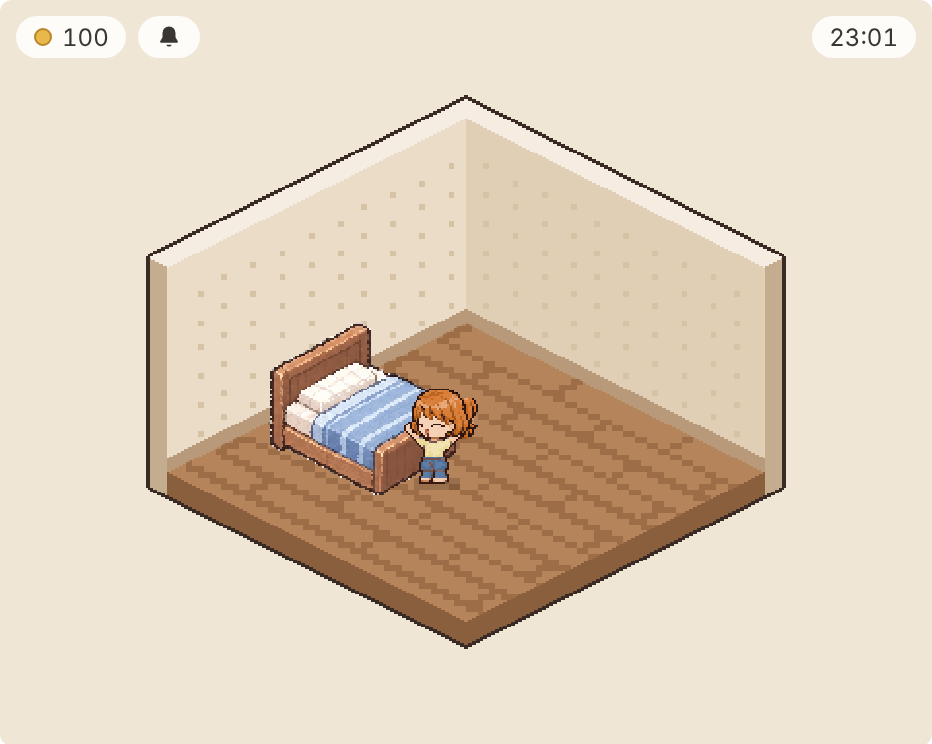
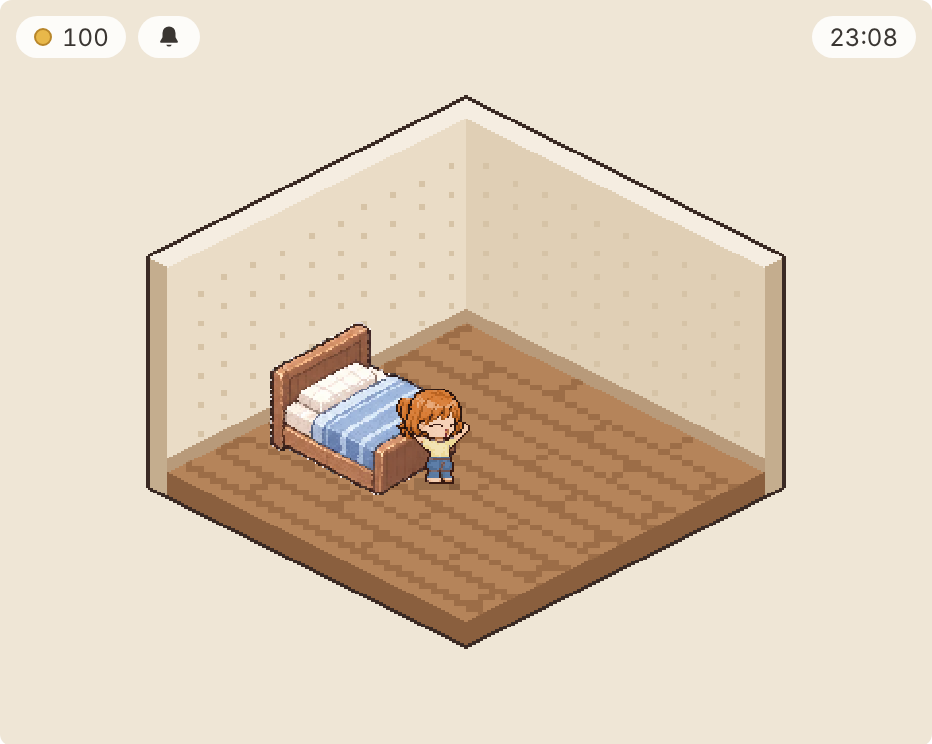
베개가 앞쪽인 침대에서 GPT 누운 머리 그림 사용, 좌우 뒤집힌 침대 뒤쪽 그림 4종 수정
Claude-Session: https://claude.ai/code/session_017aF2aZeAYzMjvegGtH2ZQ4

Changed region(s): [[0.4045, 0.5255, 0.529, 0.6492], [0.9335, 0.0309, 0.9646, 0.0618]]

diff --git a/lie-front-art.js b/lie-front-art.js
@@ -1,0 +1,2 @@
+// 베개가 앞쪽인 침대에서 자는 머리 (정수리가 보는 쪽). GPT 그림을 도트로 바꿔 만든 파일 (art-src/tools/lie_front.py)
+const LIE_FRONT_ART = {"base": {"hair": "#211610", "skin": "#f0d0b9"}, "palette": {"䀀": ["#4a3226", "keep"], "䀁": ["#2e180f", "keep"], "䀂": ["#4d2f22", "hair"], "䀃": ["#673f2d", "hair"], "䀄": ["#e3bea7", "skin"], "䀅": ["#f3cfb7", "skin"], "䀆": ["#f4cdb2", "skin"], "䀇": ["#bf9b88", "hair"], "䀈": ["#f2c6ab", "skin"], "䀉": ["#26160f", "keep"], "䀊": ["#291911", "keep"], "䀋": ["#40251a", "keep"], "䀌": ["#0d0201", "keep"], "䀍": ["#f2d6c0", "skin"], "䀎": ["#22120c", "keep"], "䀏": ["#342219", "keep"], "䀐": ["#372219", "keep"], "䀑": ["#090000", "keep"], "䀒": ["#efccb3", "skin"], "䀓": ["#100805", "keep"], "䀔": ["#392319", "keep"], "䀕": ["#371f16", "keep"], "䀖": ["#543628", "hair"], "䀗": ["#422a1f", "keep"], "䀘": ["#1a0904", "keep"], "䀙": ["#1d0e08", "keep"], "䀚": ["#472f23", "keep"], "䀛": ["#442b20", "keep"], "䀜": ["#7e5947", "hair"], "䀝": ["#4a2d21", "keep"], "䀞": ["#462c21", "keep"], "䀟": ["#301d16", "keep"], "䀠": ["#000000", "keep"]}, "heads": {"short": {"rows": ["..............䀀䀀䀀䀀䀀䀀.........", ".............䀀䀁䀂䀃䀄䀅䀄䀀䀀.......", ".........䀀..䀀䀄䀅䀅䀆䀆䀆䀅䀅䀅䀀䀀.....", ".........䀀䀀.䀀䀅䀅䀅䀅䀅䀅䀇䀄䀈䀈䀆䀀䀀...", ".......䀀䀀䀉䀊䀀䀋䀌䀈䀈䀅䀅䀅䀆䀄䀈䀈䀅䀍䀎䀀..", ".....䀀䀀䀏䀐䀉䀁䀈䀄䀄䀑䀒䀅䀅䀅䀅䀅䀅䀅䀍䀆䀄䀎䀀.", "..䀀䀀䀀䀓䀔䀐䀕䀊䀊䀇䀌䀇䀇䀒䀅䀅䀅䀅䀅䀅䀅䀅䀆䀈䀎䀀.", "..䀀䀎䀉䀏䀐䀔䀎䀊䀉䀖䀎䀗䀅䀅䀅䀅䀅䀆䀅䀅䀅䀅䀅䀆䀘䀙䀀", "...䀀䀐䀐䀏䀘䀉䀊䀗䀐䀊䀙䀆䀍䀍䀍䀍䀈䀅䀅䀆䀆䀆䀄䀚䀘䀀", "..䀀䀌䀔䀋䀋䀔䀚䀏䀛䀐䀌䀍䀆䀒䀅䀆䀄䀌䀌䀒䀈䀈䀈䀄䀇䀎䀀", ".䀀䀘䀖䀋䀋䀋䀋䀋䀋䀗䀎䀉䀘䀗䀔䀁䀆䀈䀅䀑䀑䀆䀈䀇䀇䀜䀜䀀", "䀀䀁䀊䀖䀖䀂䀖䀝䀚䀋䀎䀙䀗䀝䀔䀔䀐䀙䀜䀆䀅䀘䀈䀇䀙䀜䀜䀄䀀", "䀀䀎䀌䀐䀂䀃䀖䀖䀂䀗䀙䀝䀛䀝䀗䀗䀉䀘䀙䀘䀅䀇䀁䀁䀁䀇䀄䀄䀀", ".䀀䀁䀝䀊䀃䀃䀜䀖䀉䀖䀖䀖䀂䀚䀝䀞䀛䀝䀛䀌䀌䀟䀊䀜䀜䀄䀕䀀", ".䀀䀘䀊䀞䀖䀂䀜䀃䀃䀖䀖䀖䀖䀂䀞䀛䀗䀋䀔䀕䀔䀁䀙䀇䀄䀘䀀.", "䀀䀀䀘䀘䀔䀊䀖䀃䀊䀃䀃䀃䀃䀁䀕䀕䀋䀕䀗䀗䀐䀊䀙䀜䀄䀘䀁䀀.", "..䀀䀁䀁䀙䀂䀂䀊䀃䀃䀃䀃䀃䀖䀖䀖䀝䀝䀐䀟䀏䀏䀐䀂䀁䀊䀎䀀", "..䀀䀟䀐䀚䀝䀚䀉䀝䀝䀃䀜䀖䀖䀖䀖䀋䀋䀗䀏䀟䀉䀘䀙䀟䀟䀀.", "...䀀䀏䀐䀗䀗䀗䀞䀞䀝䀖䀃䀔䀗䀛䀞䀛䀟䀊䀊䀊䀉䀊䀉䀀..", "....䀀䀐䀗䀗䀞䀞䀛䀛䀛䀗䀗䀋䀗䀋䀋䀗䀞䀞䀛䀐䀊䀀...", "....䀀䀎䀝䀖䀞䀛䀛䀛䀗䀋䀗䀗䀁䀐䀋䀞䀛䀛䀗䀊䀎䀀...", ".....䀀䀟䀝䀘䀛䀞䀛䀗䀛䀐䀗䀗䀕䀐䀐䀐䀊䀉䀉䀀....", "......䀀䀁䀙䀕䀗䀐䀐䀕䀏䀎䀊䀐䀐䀏䀊䀌䀙䀀.....", ".......䀀䀀䀀䀊䀟䀁䀁䀁䀊䀎䀙䀎䀎䀘䀀䀀......", ".......䀀..䀀䀀䀏䀀䀀䀊䀎䀀䀀䀌䀀........", "............䀀..䀀䀀..䀀䀀........"], "at": [17.1, 9.4]}, "buzz": {"rows": [".............䀀䀀䀀䀀䀀䀀.........", "............䀀䀁䀞䀇䀞䀍䀍䀀䀀.......", "............䀀䀆䀅䀅䀅䀅䀆䀅䀆䀀䀀.....", ".........䀀.䀀䀆䀆䀅䀅䀅䀅䀄䀄䀆䀆䀈䀀䀀...", ".......䀀䀀䀋䀀䀁䀓䀈䀅䀅䀅䀅䀆䀆䀄䀅䀒䀄䀎䀀..", ".....䀀䀀䀟䀕䀂䀄䀄䀄䀌䀒䀆䀅䀅䀅䀅䀅䀅䀅䀆䀄䀙䀀.", "....䀀䀗䀊䀊䀃䀈䀈䀄䀄䀄䀅䀅䀅䀅䀅䀅䀅䀅䀅䀆䀈䀜䀀.", "...䀀䀕䀐䀏䀘䀄䀈䀈䀈䀆䀆䀅䀅䀅䀅䀈䀆䀆䀆䀆䀆䀈䀃䀘䀀", "..䀀䀁䀔䀐䀕䀟䀙䀜䀅䀅䀅䀒䀆䀆䀆䀄䀌䀈䀅䀆䀆䀆䀆䀜䀘䀀", ".䀀䀕䀝䀋䀖䀕䀕䀕䀁䀔䀅䀆䀆䀆䀆䀆䀄䀌䀌䀅䀆䀆䀈䀇䀇䀌䀀", ".䀀䀋䀝䀛䀂䀂䀝䀁䀏䀊䀗䀇䀈䀈䀒䀒䀈䀈䀓䀌䀅䀅䀇䀇䀇䀄䀀", "䀀䀗䀖䀖䀝䀝䀝䀞䀗䀏䀁䀐䀐䀛䀄䀅䀅䀈䀈䀈䀎䀍䀇䀎䀜䀇䀈䀀", "䀀䀔䀖䀖䀃䀞䀞䀝䀂䀝䀝䀂䀞䀕䀁䀆䀆䀈䀄䀄䀄䀄䀕䀁䀜䀜䀆䀀", "䀀䀕䀝䀝䀃䀜䀂䀂䀂䀂䀂䀂䀂䀛䀁䀙䀃䀝䀈䀄䀂䀉䀊䀇䀜䀇䀎䀀", "䀀䀔䀝䀖䀖䀜䀜䀖䀂䀂䀂䀂䀂䀂䀂䀋䀘䀏䀊䀏䀏䀉䀙䀈䀄䀎䀀.", "䀀䀗䀗䀗䀝䀝䀖䀃䀃䀂䀝䀝䀝䀝䀝䀝䀝䀞䀞䀐䀊䀉䀋䀔䀕䀁䀀.", ".䀀䀔䀋䀝䀂䀋䀖䀂䀂䀃䀃䀝䀝䀂䀂䀂䀝䀞䀕䀗䀁䀊䀊䀕䀁䀀.", "..䀀䀐䀋䀝䀋䀝䀝䀝䀃䀃䀖䀖䀂䀂䀝䀗䀋䀋䀔䀁䀟䀁䀐䀀..", "..䀀䀐䀗䀝䀚䀝䀂䀂䀂䀖䀃䀖䀂䀂䀝䀞䀞䀞䀗䀏䀏䀟䀀...", "...䀀䀕䀔䀔䀚䀂䀂䀂䀂䀂䀝䀝䀝䀝䀞䀞䀛䀐䀕䀏䀊䀀...", "....䀀䀐䀋䀗䀚䀚䀝䀂䀝䀝䀝䀝䀝䀝䀋䀗䀗䀕䀁䀀....", ".....䀀䀋䀗䀗䀚䀝䀝䀝䀋䀗䀗䀗䀐䀔䀐䀐䀀䀀.....", "......䀀䀀䀌䀐䀐䀗䀋䀋䀔䀔䀏䀏䀉䀉䀀.......", "........䀀䀀䀀䀕䀋䀐䀕䀐䀉䀀䀀䀀........", "...........䀀䀀䀀䀀䀀䀀..........."], "at": [15.7, 9.6]}, "bangs": {"rows": ["..............䀀䀀䀀䀀䀀䀀.........", ".............䀀䀁䀅䀖䀆䀆䀄䀀䀀.......", "............䀀䀜䀆䀅䀅䀆䀆䀆䀍䀍䀀䀀.....", ".........䀀䀀䀀䀜䀈䀆䀆䀅䀅䀅䀄䀈䀅䀅䀈䀀䀀...", "........䀀䀙䀙䀇䀙䀘䀅䀆䀅䀅䀅䀅䀆䀄䀆䀈䀈䀙䀀..", ".....䀀䀀䀀䀐䀕䀎䀈䀈䀄䀘䀈䀅䀆䀅䀅䀆䀆䀆䀅䀅䀅䀀..", "...䀀䀀䀚䀗䀐䀐䀟䀘䀘䀄䀇䀒䀆䀆䀅䀅䀅䀅䀅䀅䀅䀆䀆䀘䀀.", "...䀀䀖䀖䀗䀔䀉䀠䀌䀖䀓䀃䀅䀅䀅䀅䀅䀍䀅䀅䀆䀆䀈䀈䀝䀘䀀", "...䀀䀝䀝䀐䀏䀟䀌䀜䀕䀉䀆䀆䀒䀒䀅䀒䀅䀆䀆䀆䀆䀆䀈䀇䀘䀀", "..䀀䀝䀖䀕䀕䀕䀋䀗䀗䀝䀕䀒䀈䀍䀅䀆䀆䀠䀑䀆䀆䀈䀈䀇䀇䀙䀀", ".䀀䀕䀃䀖䀝䀃䀝䀗䀋䀗䀌䀛䀞䀟䀊䀍䀙䀄䀄䀌䀌䀆䀄䀇䀇䀜䀄䀀", ".䀀䀋䀃䀖䀃䀃䀞䀋䀋䀊䀗䀗䀋䀏䀝䀄䀙䀄䀄䀄䀌䀄䀎䀃䀜䀜䀈䀀", ".䀀䀖䀕䀖䀜䀃䀂䀝䀝䀗䀚䀚䀗䀝䀔䀉䀁䀁䀌䀄䀄䀕䀁䀁䀜䀇䀜䀀", ".䀀䀑䀂䀖䀂䀃䀜䀜䀖䀖䀖䀂䀂䀚䀐䀌䀊䀎䀠䀌䀁䀐䀕䀇䀄䀁䀜䀀", "䀀䀀䀌䀂䀝䀃䀃䀃䀃䀜䀖䀂䀝䀝䀁䀋䀟䀗䀗䀔䀐䀏䀙䀆䀇䀄䀊䀀.", "..䀀䀟䀟䀝䀝䀝䀛䀋䀃䀂䀞䀝䀂䀝䀔䀋䀋䀋䀗䀗䀙䀁䀜䀙䀉䀀.", "..䀀䀘䀕䀋䀝䀎䀂䀂䀝䀃䀃䀖䀖䀝䀋䀋䀋䀔䀐䀌䀊䀎䀉䀊䀐䀀.", "..䀀䀟䀋䀐䀗䀁䀗䀝䀝䀃䀃䀃䀖䀝䀛䀔䀋䀔䀏䀊䀊䀉䀉䀊䀀..", "...䀀䀐䀐䀕䀋䀗䀗䀋䀗䀖䀖䀋䀋䀗䀛䀝䀕䀊䀊䀊䀉䀉䀉䀀..", "....䀀䀟䀐䀗䀛䀛䀋䀗䀞䀞䀝䀁䀁䀕䀗䀗䀗䀗䀕䀊䀊䀀...", "....䀀䀎䀟䀔䀐䀞䀞䀗䀕䀚䀁䀗䀞䀚䀗䀗䀗䀕䀕䀏䀀....", ".....䀀䀀䀏䀟䀐䀕䀐䀋䀕䀔䀐䀏䀏䀏䀉䀎䀊䀀䀀.....", ".......䀀䀟䀉䀏䀔䀐䀗䀁䀏䀐䀉䀊䀉䀓䀀.......", "........䀀䀀䀌䀊䀊䀉䀟䀟䀉䀉䀀䀀䀀........", "..........䀀䀀䀀䀀䀀䀀䀀䀀..........."], "at": [16.9, 9.3]}, "spiky": {"rows": ["..............䀀䀀䀀䀀䀀䀀.........", ".............䀀䀎䀜䀃䀅䀖䀂䀀䀀䀀......", "..........䀀.䀀䀄䀅䀆䀅䀅䀍䀍䀍䀍䀜䀀.....", ".........䀀䀊䀀䀄䀈䀆䀅䀅䀅䀍䀄䀅䀆䀆䀈䀀䀀...", "......䀀䀀䀀䀁䀁䀋䀘䀘䀈䀅䀅䀅䀅䀆䀆䀄䀆䀆䀘䀙䀀..", "......䀀䀊䀏䀐䀋䀄䀄䀄䀑䀒䀆䀅䀅䀅䀅䀅䀆䀅䀆䀘䀀..", ".....䀀䀎䀔䀐䀘䀙䀙䀗䀇䀇䀅䀅䀅䀅䀅䀆䀒䀒䀆䀈䀈䀌䀀.", "..䀀䀀䀀䀐䀐䀋䀉䀎䀗䀜䀘䀕䀆䀅䀅䀍䀅䀈䀆䀆䀈䀈䀈䀈䀙䀀.", "..䀀䀊䀉䀉䀊䀐䀎䀗䀋䀐䀊䀅䀅䀆䀆䀆䀇䀑䀒䀆䀆䀆䀆䀄䀃䀌䀀", "...䀀䀗䀗䀋䀋䀋䀔䀐䀘䀁䀆䀌䀘䀅䀄䀄䀌䀌䀅䀆䀈䀈䀇䀜䀙䀀", "..䀀䀗䀋䀋䀗䀗䀗䀋䀟䀔䀔䀏䀝䀝䀗䀈䀄䀈䀌䀘䀅䀄䀇䀇䀃䀇䀀", "..䀀䀗䀋䀋䀖䀝䀛䀛䀘䀔䀕䀗䀝䀂䀋䀄䀁䀄䀄䀌䀈䀙䀁䀜䀜䀄䀀", "䀀䀀䀟䀋䀖䀖䀃䀖䀞䀞䀝䀖䀝䀂䀛䀎䀊䀌䀉䀏䀄䀇䀟䀎䀜䀜䀄䀇䀀", "䀀䀀䀓䀋䀋䀖䀃䀜䀜䀋䀂䀝䀝䀝䀖䀂䀗䀚䀗䀐䀎䀉䀟䀉䀜䀄䀁䀃䀀", "..䀀䀋䀋䀐䀂䀃䀜䀖䀂䀖䀝䀝䀚䀂䀂䀎䀙䀊䀔䀔䀘䀊䀇䀘䀊䀀.", "..䀀䀛䀊䀏䀂䀂䀝䀙䀜䀃䀜䀋䀕䀔䀁䀁䀛䀏䀔䀎䀉䀉䀙䀙䀁䀎䀀", ".䀀䀘䀐䀁䀐䀂䀖䀝䀎䀔䀖䀃䀁䀞䀖䀝䀚䀚䀊䀊䀕䀁䀉䀎䀉䀉䀀.", ".䀀䀀䀊䀐䀏䀐䀚䀖䀁䀝䀖䀃䀃䀃䀝䀛䀛䀞䀛䀛䀐䀕䀎䀉䀎䀀..", "...䀀䀟䀟䀊䀔䀚䀚䀞䀝䀂䀃䀝䀖䀋䀗䀛䀗䀋䀎䀎䀎䀉䀉䀀䀀.", "...䀀䀟䀉䀟䀐䀞䀚䀞䀛䀞䀞䀝䀝䀚䀞䀗䀔䀕䀊䀊䀋䀁䀀...", "...䀀䀉䀎䀙䀊䀚䀐䀋䀞䀗䀋䀐䀗䀗䀗䀞䀔䀂䀝䀟䀊䀀䀀...", "....䀀䀊䀙䀐䀖䀗䀞䀗䀗䀗䀋䀎䀏䀐䀋䀐䀋䀐䀉䀀.....", ".....䀀䀀䀎䀁䀘䀔䀐䀕䀔䀐䀐䀁䀁䀐䀋䀏䀘䀀䀀.....", ".......䀀䀊䀀䀀䀏䀏䀊䀟䀁䀊䀌䀟䀟䀙䀀.䀀.....", ".......䀀䀀..䀀䀉䀀䀀䀟䀊䀀䀀䀙䀀........", "............䀀..䀀䀀..䀀........."], "at": [16.9, 9.4]}, "bob": {"rows": ["..............䀀䀀䀀䀀䀀䀀.........", ".............䀀䀘䀅䀍䀍䀍䀖䀀䀀.......", ".........䀀䀀.䀀䀅䀅䀅䀅䀅䀅䀅䀈䀈䀀䀀.....", "........䀀䀘䀘䀀䀜䀆䀆䀅䀅䀅䀅䀄䀅䀅䀅䀅䀀䀀...", "......䀀䀀䀟䀁䀁䀁䀌䀘䀆䀆䀅䀅䀅䀅䀅䀈䀈䀈䀄䀁䀀..", "....䀀䀀䀝䀗䀏䀌䀅䀈䀈䀘䀘䀅䀅䀅䀅䀅䀆䀅䀒䀒䀈䀈䀀..", "...䀀䀛䀗䀐䀕䀐䀟䀟䀘䀜䀇䀅䀅䀅䀅䀅䀅䀅䀆䀆䀆䀒䀇䀘䀀.", "..䀀䀝䀞䀐䀕䀏䀊䀙䀌䀒䀘䀌䀅䀅䀅䀅䀆䀆䀅䀆䀆䀈䀈䀈䀘䀀.", "..䀀䀔䀋䀕䀋䀏䀙䀊䀝䀝䀋䀍䀅䀅䀅䀅䀍䀓䀅䀈䀈䀈䀄䀈䀃䀌䀀", ".䀀䀝䀋䀋䀝䀛䀎䀚䀂䀂䀋䀙䀍䀙䀌䀆䀄䀄䀌䀌䀆䀈䀆䀙䀃䀃䀕䀀", ".䀀䀖䀝䀜䀝䀋䀐䀐䀛䀁䀏䀗䀁䀛䀟䀁䀅䀄䀄䀌䀌䀄䀄䀏䀁䀎䀆䀀", ".䀀䀃䀜䀜䀂䀂䀗䀏䀙䀚䀗䀗䀕䀕䀕䀍䀈䀄䀄䀄䀌䀅䀋䀕䀘䀎䀍䀀", "䀀䀞䀖䀃䀜䀂䀂䀕䀊䀖䀂䀚䀐䀝䀝䀚䀁䀁䀁䀎䀆䀘䀕䀋䀏䀋䀁䀇䀀", "䀀䀝䀖䀃䀃䀜䀖䀁䀖䀖䀖䀛䀝䀝䀞䀙䀉䀉䀔䀁䀌䀋䀋䀋䀘䀋䀁䀜䀀", "䀀䀛䀝䀂䀃䀜䀖䀁䀖䀖䀃䀖䀖䀁䀊䀝䀝䀞䀗䀗䀗䀗䀁䀎䀘䀁䀁䀀.", ".䀀䀁䀖䀚䀂䀖䀃䀃䀃䀃䀖䀕䀖䀂䀂䀂䀂䀂䀛䀏䀏䀟䀐䀗䀁䀉䀀.", ".䀀䀉䀝䀝䀂䀕䀋䀜䀂䀃䀃䀖䀖䀂䀂䀂䀝䀂䀕䀔䀏䀏䀉䀘䀉䀘䀀.", ".䀀䀉䀞䀂䀂䀁䀝䀂䀂䀃䀃䀖䀂䀋䀗䀞䀗䀗䀔䀏䀊䀊䀊䀁䀉䀀..", ".䀀䀉䀛䀝䀝䀚䀝䀝䀝䀂䀂䀃䀂䀛䀗䀛䀗䀕䀏䀉䀊䀏䀐䀊䀀...", "..䀀䀔䀋䀋䀋䀝䀞䀞䀝䀝䀞䀖䀝䀋䀋䀋䀗䀋䀋䀋䀔䀁䀊䀀...", "..䀀䀀䀐䀕䀔䀗䀞䀝䀚䀋䀞䀞䀐䀝䀂䀝䀋䀋䀗䀁䀎䀎䀀....", "....䀀䀐䀔䀋䀋䀗䀗䀞䀛䀛䀗䀕䀐䀐䀕䀕䀁䀁䀌䀀.....", "....䀀䀉䀉䀔䀗䀗䀋䀚䀞䀛䀛䀐䀔䀐䀁䀁䀀䀀䀀......", ".....䀀䀀䀟䀐䀔䀐䀐䀐䀔䀐䀐䀐䀏䀀䀀.........", ".......䀀䀀䀀䀘䀏䀏䀊䀊䀏䀀䀀...........", "..........䀀䀀䀀䀀䀀䀀............."], "at": [16.4, 9.3]}, "long": {"rows": ["...............䀀䀀䀀䀀䀀䀀.........", "..............䀀䀎䀂䀆䀆䀅䀖䀀䀀.......", "..........䀀䀀.䀀䀆䀆䀅䀆䀆䀆䀆䀆䀆䀀䀀.....", ".........䀀䀉䀀.䀀䀈䀆䀅䀅䀅䀅䀇䀆䀆䀆䀆䀀䀀...", ".......䀀䀀䀐䀊䀁䀀䀌䀌䀄䀄䀅䀅䀆䀒䀄䀇䀆䀆䀒䀎䀀..", "......䀀䀔䀕䀕䀌䀜䀄䀄䀘䀌䀄䀅䀅䀅䀆䀆䀆䀆䀆䀅䀇䀀..", ".....䀀䀝䀋䀔䀐䀘䀖䀘䀇䀄䀇䀅䀅䀅䀅䀆䀆䀅䀆䀆䀆䀈䀘䀀.", "....䀀䀐䀝䀔䀐䀁䀃䀃䀃䀘䀃䀍䀍䀅䀅䀆䀆䀅䀅䀅䀆䀆䀈䀘䀀.", "...䀀䀎䀝䀁䀏䀔䀕䀐䀎䀜䀘䀆䀅䀅䀍䀍䀅䀒䀅䀆䀆䀆䀆䀆䀜䀌䀀", "...䀀䀖䀝䀕䀕䀗䀛䀎䀝䀝䀋䀒䀈䀅䀅䀒䀆䀓䀠䀒䀈䀈䀈䀘䀜䀌䀀", "...䀀䀝䀝䀖䀞䀗䀗䀙䀋䀗䀁䀘䀋䀙䀙䀒䀈䀈䀑䀑䀈䀒䀙䀟䀜䀃䀀", "...䀀䀃䀂䀖䀋䀋䀐䀗䀗䀝䀁䀖䀁䀎䀎䀅䀄䀈䀈䀌䀄䀁䀟䀕䀘䀇䀀", "..䀀䀕䀃䀜䀝䀝䀛䀙䀚䀂䀝䀁䀎䀗䀛䀇䀖䀙䀆䀈䀜䀁䀁䀊䀟䀕䀇䀀", "..䀀䀗䀖䀖䀜䀜䀝䀝䀖䀖䀝䀚䀝䀛䀗䀙䀊䀁䀖䀌䀋䀐䀊䀟䀁䀝䀇䀀", "..䀀䀛䀂䀖䀜䀃䀝䀖䀖䀖䀂䀂䀋䀐䀙䀟䀐䀐䀐䀗䀋䀎䀃䀁䀕䀕䀀.", "..䀀䀂䀗䀂䀖䀃䀁䀃䀖䀃䀝䀂䀂䀂䀚䀋䀔䀛䀞䀞䀐䀉䀜䀇䀃䀙䀌䀀", "..䀀䀚䀉䀚䀚䀕䀎䀖䀖䀃䀃䀛䀂䀂䀝䀝䀝䀛䀗䀉䀉䀟䀛䀁䀉䀉䀌䀀", "..䀀䀗䀎䀗䀗䀋䀗䀝䀝䀂䀜䀃䀃䀖䀝䀝䀞䀊䀊䀔䀏䀟䀉䀎䀊䀘䀙䀀", "..䀀䀕䀎䀚䀚䀗䀞䀞䀝䀝䀝䀃䀋䀋䀗䀋䀋䀗䀐䀐䀉䀉䀎䀊䀉䀉䀀.", "..䀀䀊䀘䀛䀚䀗䀝䀝䀝䀝䀞䀝䀂䀝䀗䀗䀋䀗䀊䀊䀐䀊䀊䀊䀎䀀..", "..䀀䀔䀁䀔䀎䀔䀞䀞䀞䀞䀝䀛䀛䀞䀝䀛䀝䀉䀏䀐䀋䀛䀁䀊䀀...", ".䀀䀊䀋䀊䀔䀉䀎䀐䀋䀛䀛䀛䀛䀛䀞䀕䀔䀔䀛䀗䀊䀊䀀䀀䀀....", ".䀀䀊䀋䀘䀐䀊䀙䀉䀐䀋䀋䀗䀗䀗䀔䀕䀐䀐䀐䀙䀀䀀.......", ".䀀䀐䀐䀏䀗䀙䀙䀉䀙䀐䀔䀔䀗䀕䀐䀁䀘䀀䀀䀀.........", "䀀䀐䀐䀙䀗䀘䀓䀘䀊䀘䀊䀔䀔䀐䀔䀐䀙䀀............", "䀀䀀䀀䀀䀀䀀䀀䀀䀟䀟䀏䀊䀟䀊䀎䀀䀀.............", "........䀀䀀䀀䀀䀀䀀䀀..............."], "at": [17.3, 9.8]}, "ponytail": {"rows": [".................䀀䀀䀀䀀䀀䀀.........", "................䀀䀁䀅䀍䀍䀍䀃䀀䀀.......", "...............䀀䀆䀆䀅䀅䀅䀅䀆䀅䀅䀀䀀.....", "............䀀䀀䀀䀍䀅䀅䀅䀅䀅䀅䀄䀄䀆䀆䀄䀀䀀...", "...........䀀䀟䀁䀋䀙䀌䀅䀆䀍䀅䀅䀆䀇䀄䀆䀅䀇䀎䀀..", ".........䀀䀀䀏䀔䀈䀄䀄䀄䀌䀍䀅䀅䀅䀅䀅䀅䀅䀅䀆䀄䀙䀀.", "........䀀䀐䀏䀟䀉䀉䀙䀙䀇䀅䀍䀅䀅䀅䀆䀆䀆䀆䀆䀆䀆䀎䀀.", "...䀀䀀䀀䀀䀀䀋䀖䀕䀊䀉䀉䀝䀒䀆䀆䀅䀅䀅䀆䀆䀆䀆䀆䀆䀈䀈䀖䀀.", "..䀀䀋䀝䀃䀏䀊䀋䀗䀐䀂䀐䀋䀔䀅䀆䀆䀆䀆䀆䀜䀌䀅䀅䀆䀆䀈䀇䀂䀘䀀", ".䀀䀏䀟䀐䀔䀉䀝䀖䀂䀖䀚䀐䀔䀕䀖䀆䀖䀆䀅䀅䀅䀌䀌䀅䀈䀄䀜䀜䀜䀌䀀", ".䀀䀚䀗䀝䀊䀟䀖䀂䀝䀃䀕䀐䀋䀐䀕䀐䀎䀌䀈䀈䀆䀈䀌䀌䀅䀄䀎䀂䀃䀜䀀", ".䀀䀗䀋䀝䀕䀁䀖䀂䀖䀖䀏䀐䀐䀘䀛䀔䀋䀙䀈䀈䀆䀈䀄䀌䀇䀊䀎䀋䀃䀇䀀", ".䀀䀞䀛䀐䀙䀐䀖䀖䀖䀃䀐䀗䀖䀖䀂䀂䀛䀊䀐䀘䀌䀈䀄䀙䀙䀁䀌䀃䀜䀇䀀", "..䀀䀔䀕䀙䀗䀝䀃䀃䀝䀔䀖䀖䀂䀂䀞䀝䀚䀛䀋䀐䀌䀌䀉䀁䀌䀕䀖䀇䀂䀀", "..䀀䀐䀐䀟䀝䀂䀖䀃䀝䀋䀃䀖䀖䀖䀂䀕䀐䀔䀁䀊䀏䀐䀕䀎䀄䀄䀄䀙䀊䀀", "..䀀䀋䀕䀏䀐䀊䀋䀝䀙䀖䀃䀃䀃䀋䀁䀖䀕䀐䀉䀊䀟䀉䀙䀕䀋䀎䀁䀁䀌䀀", "...䀀䀊䀁䀛䀗䀝䀝䀏䀂䀝䀂䀃䀜䀖䀕䀗䀋䀗䀊䀊䀗䀐䀕䀁䀁䀏䀁䀀.", "..䀀䀗䀎䀖䀝䀙䀝䀚䀐䀚䀝䀂䀝䀜䀖䀖䀋䀋䀗䀗䀔䀐䀎䀉䀘䀟䀊䀉䀀.", ".䀀䀝䀖䀎䀖䀝䀘䀐䀎䀔䀛䀞䀞䀞䀞䀋䀋䀋䀋䀕䀐䀙䀟䀉䀘䀌䀊䀎䀀..", "䀀䀋䀋䀃䀟䀃䀋䀏䀟䀌䀐䀔䀔䀔䀔䀖䀖䀝䀋䀋䀋䀋䀏䀊䀊䀔䀏䀊䀀...", "䀀䀝䀝䀃䀋䀝䀂䀊䀎䀊䀐䀋䀛䀞䀛䀛䀋䀕䀛䀐䀐䀊䀐䀗䀐䀉䀉䀙䀀...", "䀀䀏䀐䀋䀝䀝䀋䀊䀟䀟䀊䀋䀋䀋䀛䀛䀗䀐䀁䀗䀋䀐䀐䀁䀟䀊䀙䀀....", ".䀀䀐䀗䀋䀖䀝䀁䀕䀐䀟䀐䀔䀕䀕䀐䀐䀊䀐䀗䀁䀗䀐䀕䀘䀘䀀.....", ".䀀䀟䀊䀐䀛䀞䀋䀚䀀䀀䀊䀊䀐䀔䀋䀗䀋䀐䀎䀊䀊䀘䀀䀀䀀......", "..䀀䀊䀁䀐䀁䀟䀀..䀀䀀䀉䀊䀗䀋䀁䀟䀏䀀䀀䀀.........", "...䀀䀀䀀䀀䀀䀀....䀀䀀䀀䀀䀀䀀䀀............"], "at": [18.6, 9.8]}, "pigtails": {"rows": [".................䀀䀀䀀䀀䀀.........", "................䀀䀝䀄䀖䀖䀄䀀䀀䀀......", "...............䀀䀆䀅䀆䀆䀆䀆䀅䀍䀇䀀.....", "............䀀.䀀䀈䀈䀆䀅䀅䀅䀇䀆䀅䀆䀈䀀䀀...", "...........䀀䀁䀀䀌䀘䀈䀈䀍䀍䀅䀅䀈䀈䀆䀆䀍䀓䀀..", "..........䀀䀋䀟䀍䀈䀈䀘䀌䀅䀅䀅䀆䀆䀆䀅䀅䀅䀇䀎䀀.", ".........䀀䀋䀋䀁䀉䀙䀄䀄䀅䀅䀅䀅䀅䀅䀅䀅䀅䀅䀆䀘䀀.", "........䀀䀗䀕䀊䀉䀉䀙䀋䀅䀅䀅䀍䀅䀆䀆䀅䀆䀆䀆䀈䀌䀀.", ".......䀀䀂䀕䀐䀐䀐䀔䀁䀘䀅䀅䀅䀒䀆䀑䀆䀆䀆䀆䀆䀆䀇䀘䀀", "......䀀䀋䀖䀝䀗䀗䀗䀗䀁䀍䀄䀅䀒䀅䀄䀠䀌䀈䀈䀈䀆䀄䀇䀘䀀", "......䀀䀊䀂䀝䀝䀗䀌䀙䀙䀙䀞䀞䀁䀅䀆䀈䀌䀓䀆䀄䀕䀜䀖䀃䀀", "......䀀䀜䀂䀂䀝䀘䀓䀛䀔䀔䀕䀗䀐䀆䀄䀄䀈䀌䀆䀁䀁䀜䀜䀄䀀", "......䀀䀝䀃䀃䀝䀗䀚䀖䀖䀖䀝䀏䀋䀁䀘䀄䀈䀇䀁䀁䀙䀜䀜䀄䀀", "......䀀䀂䀛䀜䀜䀝䀖䀋䀂䀝䀐䀋䀋䀘䀉䀉䀃䀉䀔䀔䀜䀜䀁䀋䀀", "......䀀䀐䀂䀖䀃䀃䀖䀖䀖䀂䀛䀛䀙䀘䀉䀗䀐䀔䀊䀌䀜䀇䀁䀁䀀", "......䀀䀊䀋䀂䀉䀎䀃䀃䀃䀃䀋䀖䀖䀚䀝䀞䀝䀊䀉䀐䀕䀏䀊䀀.", "..䀀䀀䀀䀀䀗䀎䀊䀂䀕䀖䀂䀃䀃䀖䀝䀂䀂䀂䀝䀝䀁䀁䀔䀔䀐䀊䀙䀀.", ".䀀䀉䀁䀁䀊䀕䀎䀙䀝䀊䀖䀂䀂䀝䀃䀂䀂䀝䀞䀁䀊䀏䀐䀔䀐䀏䀁䀟䀀.", ".䀀䀔䀃䀝䀝䀉䀙䀐䀎䀊䀗䀗䀝䀝䀃䀝䀗䀔䀕䀋䀞䀊䀊䀉䀏䀐䀟䀀..", "䀀䀕䀕䀖䀖䀋䀋䀕䀊䀟䀙䀏䀛䀛䀛䀛䀋䀗䀗䀋䀋䀋䀎䀐䀏䀊䀎䀎䀀..", "䀀䀁䀝䀖䀃䀃䀝䀕䀊䀟䀁䀐䀋䀗䀗䀗䀝䀝䀋䀕䀋䀗䀗䀔䀕䀁䀊䀀...", "䀀䀗䀗䀝䀋䀃䀂䀖䀐䀉䀁䀁䀋䀋䀗䀗䀗䀛䀋䀋䀋䀐䀐䀊䀁䀀䀀....", ".䀀䀊䀗䀋䀝䀝䀝䀗䀉䀀䀘䀟䀕䀋䀗䀗䀕䀐䀕䀁䀟䀉䀉䀀......", "..䀀䀟䀁䀞䀗䀟䀉䀀.䀀䀀䀙䀟䀁䀏䀕䀕䀁䀁䀎䀀䀀.......", "..䀀䀀䀊䀐䀊䀁䀟䀀...䀀䀀䀀䀀䀀䀀䀀䀀䀀.........", "....䀀䀀䀀䀀䀀......................"], "at": [18.7, 9.9]}, "bun": {"rows": ["................䀀䀀䀀䀀䀀䀀.........", "...............䀀䀎䀂䀇䀍䀍䀂䀀䀀.......", "............䀀.䀀䀅䀆䀅䀅䀅䀅䀍䀍䀍䀀䀀.....", "...........䀀䀙䀀䀃䀆䀆䀅䀅䀅䀅䀄䀄䀅䀆䀄䀀䀀...", "..........䀀䀁䀎䀎䀘䀘䀈䀈䀅䀅䀅䀆䀆䀇䀆䀅䀅䀎䀀..", "........䀀䀀䀕䀊䀁䀈䀆䀈䀌䀈䀆䀅䀅䀅䀅䀅䀅䀅䀅䀄䀎䀀.", ".......䀀䀊䀏䀉䀉䀎䀙䀙䀙䀅䀅䀅䀅䀅䀆䀅䀅䀅䀆䀆䀆䀕䀀.", ".......䀀䀗䀁䀊䀌䀏䀔䀘䀆䀅䀅䀅䀅䀅䀆䀆䀆䀆䀆䀆䀈䀋䀘䀀", "......䀀䀗䀗䀐䀊䀕䀋䀋䀁䀆䀅䀅䀅䀆䀈䀅䀆䀆䀆䀆䀈䀇䀜䀘䀀", "...䀀䀀䀀䀙䀝䀝䀔䀔䀏䀔䀁䀏䀌䀍䀌䀓䀆䀈䀌䀌䀅䀅䀆䀈䀇䀜䀃䀀", "..䀀䀎䀊䀙䀕䀖䀞䀋䀛䀐䀕䀚䀗䀏䀐䀕䀙䀍䀈䀆䀌䀌䀅䀈䀇䀇䀃䀃䀀", ".䀀䀔䀏䀙䀙䀃䀃䀃䀋䀁䀊䀛䀗䀐䀛䀛䀕䀁䀜䀜䀄䀄䀘䀅䀁䀘䀇䀇䀇䀀", "䀀䀉䀝䀋䀎䀃䀃䀃䀖䀖䀁䀔䀖䀐䀗䀚䀗䀙䀎䀙䀘䀘䀄䀄䀁䀎䀘䀜䀇䀄䀀", "䀀䀋䀖䀋䀁䀕䀖䀃䀃䀖䀐䀂䀝䀝䀝䀋䀞䀞䀞䀛䀗䀟䀙䀊䀊䀁䀜䀄䀃䀕䀀", "䀀䀝䀝䀐䀁䀗䀁䀖䀃䀜䀋䀂䀝䀛䀛䀝䀞䀛䀗䀗䀊䀁䀕䀐䀉䀌䀇䀇䀌䀀.", "䀀䀞䀝䀃䀊䀊䀕䀝䀂䀂䀉䀖䀃䀃䀃䀝䀝䀚䀝䀞䀗䀔䀐䀘䀎䀃䀄䀁䀊䀀.", "䀀䀚䀝䀃䀕䀉䀎䀗䀞䀗䀏䀖䀂䀃䀃䀃䀗䀞䀗䀗䀗䀏䀕䀐䀁䀉䀙䀎䀟䀀.", ".䀀䀚䀁䀋䀎䀘䀗䀚䀁䀐䀝䀝䀗䀃䀖䀂䀂䀐䀊䀊䀐䀐䀔䀙䀘䀘䀎䀎䀀.", ".䀀䀏䀋䀐䀐䀉䀕䀞䀊䀗䀋䀗䀛䀂䀝䀕䀐䀐䀔䀔䀎䀉䀙䀎䀎䀊䀉䀀..", "..䀀䀌䀊䀎䀘䀐䀐䀊䀗䀟䀕䀗䀚䀝䀂䀚䀐䀟䀏䀔䀋䀋䀗䀐䀐䀀...", "..䀀䀑䀟䀎䀎䀊䀟䀉䀔䀗䀛䀕䀁䀕䀕䀗䀗䀗䀐䀕䀔䀐䀎䀙䀀....", ".䀀䀊䀁䀐䀁䀟䀘䀘䀘䀔䀗䀛䀗䀋䀔䀐䀊䀁䀕䀕䀊䀊䀊䀎䀀.....", ".䀀䀁䀋䀋䀐䀕䀉䀁䀘䀊䀔䀔䀔䀔䀔䀟䀟䀊䀟䀁䀉䀊䀀䀀......", ".䀀䀋䀝䀝䀝䀋䀉䀎䀊䀘䀊䀊䀉䀏䀐䀐䀕䀐䀎䀀䀀䀀........", ".䀀䀋䀃䀃䀋䀋䀁䀊䀁䀁䀙䀘䀓䀀䀘䀓䀎䀎䀀...........", ".䀀䀝䀝䀃䀃䀃䀏䀐䀕䀕䀏䀘䀀.䀀䀀䀀䀀............", "..䀀䀐䀝䀚䀃䀖䀖䀗䀕䀐䀙䀀.................", "..䀀䀓䀏䀐䀋䀔䀂䀋䀝䀋䀀..................", "...䀀䀀䀗䀛䀗䀐䀐䀀䀀...................", ".....䀀䀀䀀䀀䀀....................."], "at": [17.9, 10.2]}, "curly": {"rows": ["................䀀䀀䀀䀀䀀.........", "..............䀀䀀䀅䀍䀜䀜䀜䀀䀀.......", ".............䀀䀁䀆䀆䀅䀅䀅䀅䀍䀍䀀䀀.....", "...........䀀.䀀䀄䀆䀅䀅䀅䀅䀄䀄䀅䀆䀈䀀䀀...", "........䀀䀀䀀䀊䀀䀌䀌䀌䀅䀅䀅䀅䀅䀆䀄䀈䀆䀆䀁䀀..", "......䀀䀀䀋䀐䀉䀋䀄䀄䀄䀌䀅䀍䀍䀅䀅䀆䀆䀆䀒䀆䀆䀌䀀.", ".....䀀䀗䀝䀔䀐䀘䀐䀙䀙䀈䀈䀒䀅䀅䀅䀆䀅䀅䀅䀅䀅䀈䀌䀀.", "....䀀䀝䀛䀗䀕䀌䀘䀎䀘䀌䀍䀅䀆䀅䀅䀅䀄䀅䀆䀆䀆䀆䀆䀋䀀.", "...䀀䀖䀝䀞䀞䀗䀐䀟䀅䀆䀅䀅䀅䀅䀅䀅䀃䀌䀆䀆䀆䀆䀅䀇䀂䀙䀀", "...䀀䀖䀂䀂䀐䀕䀋䀏䀅䀅䀕䀐䀅䀍䀅䀆䀄䀑䀑䀆䀆䀈䀈䀂䀘䀘䀀", "...䀀䀖䀖䀂䀐䀝䀗䀊䀘䀋䀞䀋䀂䀂䀎䀄䀄䀈䀘䀌䀈䀌䀊䀊䀌䀇䀀", "...䀀䀂䀝䀋䀝䀖䀊䀎䀏䀖䀂䀂䀝䀂䀂䀁䀎䀒䀄䀌䀎䀎䀏䀎䀁䀄䀀", "..䀀䀚䀋䀃䀃䀃䀖䀐䀖䀖䀖䀂䀂䀝䀞䀝䀁䀗䀌䀌䀄䀞䀗䀊䀕䀎䀋䀀", ".䀀䀂䀐䀐䀃䀃䀃䀝䀖䀖䀖䀖䀖䀝䀊䀘䀙䀏䀕䀐䀋䀞䀗䀟䀊䀕䀕䀁䀀", "䀀䀁䀂䀖䀝䀃䀃䀃䀊䀖䀖䀖䀖䀂䀐䀂䀝䀝䀐䀕䀐䀋䀙䀊䀏䀁䀊䀁䀓䀀", "䀀䀝䀂䀝䀂䀖䀝䀖䀘䀃䀃䀃䀋䀝䀂䀂䀂䀝䀝䀗䀎䀘䀏䀟䀊䀉䀁䀙䀘䀀", ".䀀䀁䀝䀝䀚䀝䀖䀁䀂䀖䀃䀃䀃䀖䀖䀖䀂䀔䀛䀗䀐䀏䀊䀊䀟䀘䀊䀛䀀", ".䀀䀉䀊䀏䀚䀝䀝䀝䀝䀂䀂䀃䀋䀕䀕䀐䀗䀗䀁䀘䀟䀟䀙䀊䀁䀊䀊䀀.", "..䀀䀌䀏䀊䀋䀛䀞䀞䀞䀝䀖䀖䀋䀔䀐䀗䀗䀐䀟䀟䀉䀉䀎䀊䀙䀙䀀.", "䀀䀀䀟䀎䀎䀊䀋䀋䀞䀝䀞䀞䀞䀝䀝䀝䀐䀕䀔䀗䀔䀎䀎䀉䀊䀟䀉䀀..", ".䀀䀀䀏䀙䀙䀗䀏䀐䀋䀞䀞䀞䀞䀞䀝䀚䀚䀗䀁䀛䀞䀐䀏䀙䀙䀀...", "...䀀䀀䀐䀁䀙䀏䀋䀛䀞䀞䀞䀝䀕䀕䀕䀏䀕䀁䀁䀋䀎䀀䀀....", ".....䀀䀏䀉䀉䀋䀕䀐䀗䀗䀗䀔䀔䀎䀊䀊䀊䀙䀘䀀......", "......䀀䀀䀓䀙䀎䀊䀛䀛䀁䀐䀐䀁䀀䀀䀀䀀䀀.......", "........䀀䀀䀀䀁䀕䀕䀗䀏䀉䀀............", "...........䀀䀀䀀䀀䀀䀀............."], "at": [17.3, 9.4]}}};

diff --git a/index.html b/index.html
@@ -5,7 +5,7 @@
   <meta name="viewport" content="width=device-width, initial-scale=1">
   <title>My Cozy Room</title>
   <!-- 파일 뒤의 ?v= 번호는 업데이트할 때마다 바꿉니다. (브라우저가 옛 파일을 쓰지 않도록) -->
-  <link rel="stylesheet" href="style.css?v=20261118-26">
+  <link rel="stylesheet" href="style.css?v=20261118-27">
   <!-- 화면 전환에 꼭 필요한 규칙 (디자인 파일을 늦게 받아도 화면이 섞이지 않게) -->
   <style>
     .screen { display: none; }
@@ -435,22 +435,23 @@
   </main>
 
   <!-- 순서 중요: 데이터 → 방 → 저장 → 게임 → 집중 → 첫 화면 → 로그인 -->
-  <script src="data.js?v=20261118-26"></script>
-  <script src="rooms.js?v=20261118-26"></script>
-  <script src="save.js?v=20261118-26"></script>
-  <script src="hero-art.js?v=20261118-26"></script>
-  <script src="acc-art.js?v=20261118-26"></script>
-  <script src="pet-art.js?v=20261118-26"></script>
-  <script src="outfit-art.js?v=20261118-26"></script>
-  <script src="game.js?v=20261118-26"></script>
-  <script src="focus.js?v=20261118-26"></script>
-  <script src="side.js?v=20261118-26"></script>
-  <script src="start.js?v=20261118-26"></script>
-  <script src="friends.js?v=20261118-26"></script>
+  <script src="data.js?v=20261118-27"></script>
+  <script src="rooms.js?v=20261118-27"></script>
+  <script src="save.js?v=20261118-27"></script>
+  <script src="hero-art.js?v=20261118-27"></script>
+  <script src="acc-art.js?v=20261118-27"></script>
+  <script src="pet-art.js?v=20261118-27"></script>
+  <script src="outfit-art.js?v=20261118-27"></script>
+  <script src="lie-front-art.js?v=20261118-27"></script>
+  <script src="game.js?v=20261118-27"></script>
+  <script src="focus.js?v=20261118-27"></script>
+  <script src="side.js?v=20261118-27"></script>
+  <script src="start.js?v=20261118-27"></script>
+  <script src="friends.js?v=20261118-27"></script>
   <!-- 구글 로그인 (Supabase) -->
   <script src="https://cdn.jsdelivr.net/npm/@supabase/supabase-js@2.45.4/dist/umd/supabase.min.js"></script>
-  <script src="cloud.js?v=20261118-26"></script>
-  <script src="gcal.js?v=20261118-26"></script>
-  <script src="news.js?v=20261118-26"></script>
+  <script src="cloud.js?v=20261118-27"></script>
+  <script src="gcal.js?v=20261118-27"></script>
+  <script src="news.js?v=20261118-27"></script>
 </body>
 </html>

diff --git a/game.js b/game.js
@@ -3146,10 +3146,42 @@ function drawLying(b, p) {
 
 // 베개가 앞쪽(보는 쪽)인 그림 침대: 머리 꼭대기가 보는 쪽을 향하게, 잠든 머리를 거꾸로 돌려 몸이 뻗은 방향에 맞춤
 // (누워서 머리를 이쪽으로 두면 정수리가 앞, 얼굴은 거꾸로 보임. 몸은 이불 그림 속)
+// ver.세밀은 GPT 그림(lie-front-art.js: 정수리가 왼쪽 아래)을 쓰고, 정수리가 오른쪽이면 좌우로 뒤집음
+const lieFrontCache = new Map();
+function lieFrontCanvas(look, flip) {
+  const art = typeof LIE_FRONT_ART !== "undefined" && LIE_FRONT_ART.heads[look.hair];
+  if (!art) return null;
+  const colors = heroColors(look);
+  const key = [look.hair, colors.H, colors.S, flip].join("|");
+  if (lieFrontCache.has(key)) return lieFrontCache.get(key);
+  const w = Math.max(...art.rows.map((r) => r.length)), h = art.rows.length;
+  const c = document.createElement("canvas");
+  c.width = w; c.height = h;
+  const g = c.getContext("2d");
+  const target = { hair: colors.H, skin: colors.S };
+  art.rows.forEach((row, y) => [...row].forEach((ch, x) => {
+    const pc = LIE_FRONT_ART.palette[ch];
+    if (!pc) return;
+    const [orig, part] = pc;
+    g.fillStyle = target[part] ? recolor(orig, LIE_FRONT_ART.base[part], target[part]) : orig;
+    g.fillRect(flip ? w - 1 - x : x, y, 1, 1);
+  }));
+  const out = { c, at: [flip ? w - art.at[0] : art.at[0], art.at[1]] };
+  lieFrontCache.set(key, out);
+  return out;
+}
+
 function drawHeadTowardViewer(b, p) {
   const f = footprint(b);
   const [px, py, pz] = pillowPos();
   const c0 = project(f.x + f.w / 2, f.y + f.d / 2, pz), c1 = project(px, py, pz);
+  if (useHeroArt()) {
+    const art = lieFrontCanvas(normLook(save.look), c1.x > c0.x);
+    if (art) {
+      ctx.drawImage(art.c, Math.round(p.x - art.at[0] / 3), Math.round(p.y - 2 - art.at[1] / 3), art.c.width / 3, art.c.height / 3);
+      return;
+    }
+  }
   const crown = Math.atan2(c1.y - c0.y, c1.x - c0.x); // 화면에서 정수리가 향할 방향
   const angle = crown + Math.PI / 2; // 똑바로 선 머리(정수리 위쪽)를 그 방향으로
   let h;

diff --git a/data.js b/data.js
@@ -1333,7 +1333,7 @@ Object.assign(FURNITURE, {
 
 // ---- 침대 반대 방향 그림 (돌리기 3·4번째 방향: 베개가 앞쪽) ----
 // ver.하찮 그림(imageSimpleBack)이 없으면 하찮에서는 두 방향 그림만 씀
-["bed", "futon", "mattress", "berth", "pinkBed", "canopyBed", "bunkBed", "bunkBedWhite"].forEach((id) => {
+["bed", "futon", "mattress", "berth", "pinkBed", "bunkBed", "bunkBedWhite"].forEach((id) => {
   FURNITURE[id].imageBack = `img/furn/${id}Back.png`;
 });
 

diff --git a/art-src/tools/lie_front.py b/art-src/tools/lie_front.py
@@ -1,0 +1,90 @@
+# GPT "정수리가 앞쪽인 누운 머리" 시트 -> lie-front-art.js
+import numpy as np, sys, json, colorsys
+from PIL import Image
+from scipy import ndimage
+from collections import Counter
+src, ref, out_js, pitch = sys.argv[1], sys.argv[2], sys.argv[3], float(sys.argv[4])
+STYLES = ['short','buzz','bangs','spiky','bob','long','ponytail','pigtails','bun','curly']
+a = np.array(Image.open(src).convert('RGBA')).astype(int); rgb = a[:,:,:3]
+bg = (rgb.min(2) > 225) & (rgb.max(2) - rgb.min(2) < 14)
+fg = ndimage.binary_opening(~bg, iterations=1)
+lab, n = ndimage.label(ndimage.binary_closing(fg, iterations=6))
+objs = [(sl, i+1) for i, sl in enumerate(ndimage.find_objects(lab)) if (lab[sl] == i+1).sum() > 1500]
+objs.sort(key=lambda o: o[0][1].start)
+assert len(objs) == 10, len(objs)
+def pix(a, m, tw, th, qs=10):
+    H, W = a.shape[:2]; px_, py_ = W / tw, H / th; o = np.zeros((th, tw, 4), np.uint8)
+    for j in range(th):
+        for i in range(tw):
+            ya, yb = int(j*py_), max(int(j*py_)+1, int((j+1)*py_)); xa, xb = int(i*px_), max(int(i*px_)+1, int((i+1)*px_))
+            c = a[ya:yb, xa:xb]; mm = m[ya:yb, xa:xb]
+            if mm.mean() < 0.5: continue
+            p = c[mm][:, :3]; q = Counter(tuple((v//qs)*qs) for v in p).most_common(1)[0][0]
+            sel = p[np.all((p//qs)*qs == q, axis=1)]; o[j, i, :3] = sel.mean(0); o[j, i, 3] = 255
+    return o
+def label(c):
+    h, l, s = colorsys.rgb_to_hls(*(np.array(c[:3]) / 255))
+    v = max(c[:3]) / 255
+    if v < 0.3: return 'keep'
+    if l > 0.68 and (h < 0.12 or h > 0.92): return 'skin'
+    if (h < 0.12 or h > 0.92) and l <= 0.68 and s > 0.15: return 'hair'
+    return 'keep'
+heads = {}; allpx = []
+for (sl, li), st in zip(objs, STYLES):
+    m = (lab[sl] == li) & fg[sl]
+    H, W = m.shape; tw, th = max(1, round(W / pitch)), max(1, round(H / pitch))
+    o = pix(a[sl], m, tw, th)
+    heads[st] = o; allpx += [tuple(o[y, x, :3]) for y in range(th) for x in range(tw) if o[y, x, 3]]
+    Image.fromarray(o).resize((tw*6, th*6), Image.NEAREST).save(f'h_{st}.png')
+# 색 줄이기: 10개를 한 장에 모아 32색으로
+strip = np.concatenate([np.pad(o, ((0, 40 - o.shape[0]), (0, 0), (0, 0))) for o in heads.values()], 1)
+q = Image.fromarray(strip[:, :, :3].astype(np.uint8)).quantize(32, method=Image.Quantize.MEDIANCUT)
+qa = np.array(q.convert('RGB')); x0 = 0
+for st in heads:
+    o = heads[st]; th, tw = o.shape[:2]; o[:, :, :3] = qa[:th, x0:x0 + tw]; x0 += tw
+allpx = [tuple(o[y, x, :3]) for o in heads.values() for y in range(o.shape[0]) for x in range(o.shape[1]) if o[y, x, 3]]
+# 테두리: 바깥과 맞닿은 칸을 기존 캐릭터의 외곽선 색으로
+r0 = np.array(Image.open(ref).convert('RGBA'))
+dark = Counter(tuple(r0[y, x, :3]) for y in range(r0.shape[0]) for x in range(r0.shape[1]) if r0[y, x, 3] and max(r0[y, x, :3]) < 77).most_common(1)[0][0]
+for st, o in heads.items():
+    al = o[:, :, 3] > 0
+    pad = np.pad(al, 1)
+    edge = al & ~(pad[:-2, 1:-1] & pad[2:, 1:-1] & pad[1:-1, :-2] & pad[1:-1, 2:])
+    o[edge, :3] = dark
+    Image.fromarray(o).resize((o.shape[1]*6, o.shape[0]*6), Image.NEAREST).save(f'h_{st}.png')
+allpx = [tuple(o[y, x, :3]) for o in heads.values() for y in range(o.shape[0]) for x in range(o.shape[1]) if o[y, x, 3]]
+# 색 기준: 같은 갈색 머리·밝은 피부로 그린 서 있는 머리(ref)의 대표색과 맞춤
+def dom(pxs, part):
+    c = Counter(p for p in pxs if label(p) == part).most_common(1)
+    return c[0][0]
+r = np.array(Image.open(ref).convert('RGBA'))
+rp = [tuple(r[y, x, :3]) for y in range(r.shape[0]) for x in range(r.shape[1]) if r[y, x, 3]]
+def hexc(c): return '#%02x%02x%02x' % tuple(int(v) for v in c)
+def basefor(gdom, rdom, target):
+    # recolor(orig, base, target): L = Lt + (L0 - Lb)  ->  Lb = Lt + L0 - Lr
+    _, lg, sg = colorsys.rgb_to_hls(*(np.array(gdom) / 255)); _, lr, sr = colorsys.rgb_to_hls(*(np.array(rdom) / 255))
+    ht, lt, st = colorsys.rgb_to_hls(*(np.array([int(target[i:i+2], 16) for i in (1, 3, 5)]) / 255))
+    lb = min(1, max(0, lt + lg - lr)); sb = min(1, max(0, st + (sg - sr) * 2))
+    return hexc(np.array(colorsys.hls_to_rgb(ht, lb, sb)) * 255)
+base = {'hair': basefor(dom(allpx, 'hair'), dom(rp, 'hair'), '#4a3226'), 'skin': basefor(dom(allpx, 'skin'), dom(rp, 'skin'), '#f6d2b8')}
+print('gpt dom', hexc(dom(allpx, 'hair')), hexc(dom(allpx, 'skin')), 'ref dom', hexc(dom(rp, 'hair')), hexc(dom(rp, 'skin')), 'base', base)
+pal = {}; outheads = {}
+for st, o in heads.items():
+    th, tw = o.shape[:2]; rows = []
+    ys, xs = np.nonzero(o[:, :, 3])
+    for y in range(th):
+        row = ''
+        for x in range(tw):
+            if not o[y, x, 3]: row += '.'; continue
+            key = (hexc(o[y, x, :3]), label(o[y, x]))
+            if key not in pal: pal[key] = chr(0x4000 + len(pal))
+            row += pal[key]
+        rows.append(row)
+    # 기준점: 피부(얼굴) 가운데와 전체 가운데의 중간 = 머리통 가운데
+    sk = [(x, y) for y in range(th) for x in range(tw) if o[y, x, 3] and label(o[y, x]) == 'skin']
+    cx = (np.mean([p[0] for p in sk]) + xs.mean()) / 2; cy = (np.mean([p[1] for p in sk]) + ys.mean()) / 2
+    outheads[st] = {'rows': rows, 'at': [round(cx, 1), round(cy, 1)]}
+    print(st, tw, th)
+js = 'const LIE_FRONT_ART = ' + json.dumps({'base': base, 'palette': {v: list(k) for k, v in pal.items()}, 'heads': outheads}, ensure_ascii=False) + ';\n'
+open(out_js, 'w').write('// 베개가 앞쪽인 침대에서 자는 머리 (정수리가 보는 쪽). GPT 그림을 도트로 바꿔 만든 파일 (art-src/tools/lie_front.py)\n' + js)
+print('palette', len(pal), 'bytes', len(js))
